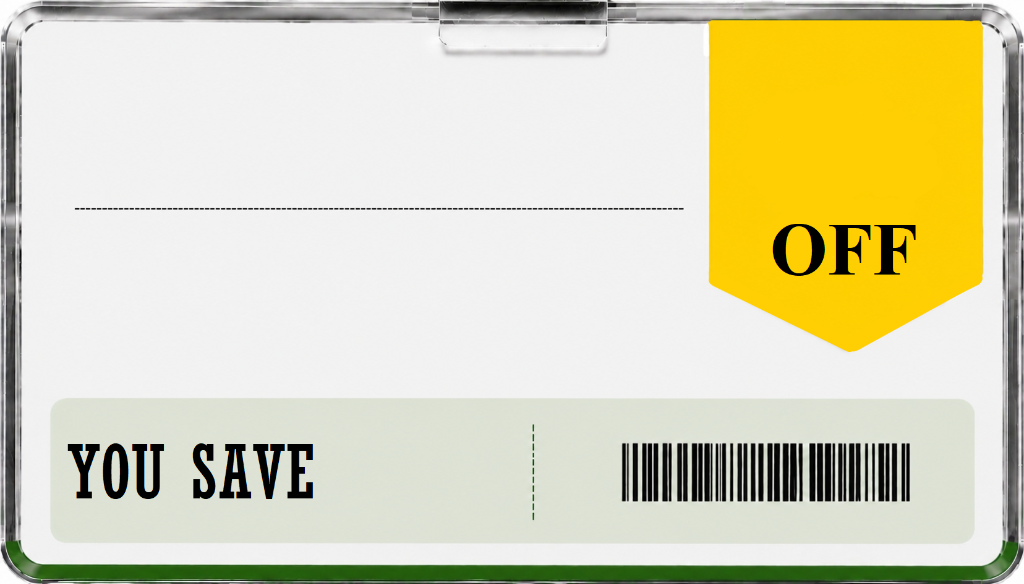
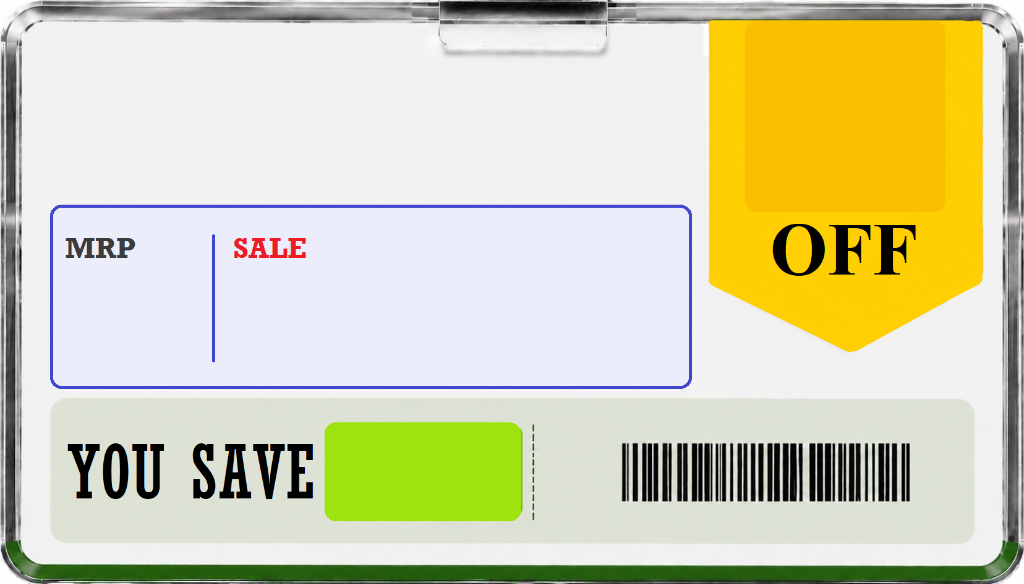
Update: Integrate newly uploaded PNG templates and exact measured compartment boundaries (Build 202608131735)

diff --git a/frontend/customer/css/scanner-v2.css b/frontend/customer/css/scanner-v2.css
@@ -455,12 +455,12 @@
   font-size: clamp(1.02rem, 3.0vw, 1.30rem);
 }
 
-/* Compartment A: MRP_COMPARTMENT (Measured PNG Geometry: X=40..240, Y=200..419) */
+/* Compartment A: MRP_COMPARTMENT (Measured New PNG Geometry: X=40..200, Y=200..419) */
 .esl-mrp-block {
   position: absolute;
   top: 34.25%;
   left: 3.91%;
-  width: 19.53%;
+  width: 15.72%;
   height: 37.50%;
   display: flex;
   flex-direction: column;
@@ -511,12 +511,12 @@
   font-weight: 500;
 }
 
-/* Compartment B: SALE_PRICE_COMPARTMENT (Measured PNG Geometry: X=242..949, Y=200..419) */
+/* Compartment B: SALE_PRICE_COMPARTMENT (Measured New PNG Geometry: X=202..949, Y=200..419) */
 .esl-sale-block {
   position: absolute;
   top: 34.25%;
-  left: 23.63%;
-  width: 69.05%;
+  left: 19.73%;
+  width: 73.05%;
   height: 37.50%;
   font-family: 'Outfit', -apple-system, BlinkMacSystemFont, sans-serif;
   font-size: clamp(2.4rem, 7.6vw, 3.6rem); /* Dominant sale price scale */

diff --git a/frontend/customer/js/build-env.js b/frontend/customer/js/build-env.js
@@ -1,10 +1,10 @@
 // Automatically generated build metadata
 window.APP_BUILD = {
   version: "0.1.0",
-  build: "202608131724",
-  commit: "52aabb8",
+  build: "202608131735",
+  commit: "5f3acf2",
   branch: "main",
-  buildTime: "2026-08-13T17:24:02.433Z",
+  buildTime: "2026-08-13T17:35:13.239Z",
   environment: "production",
   serviceWorkerEnabled: true
 };

diff --git a/frontend/customer/index.html b/frontend/customer/index.html
@@ -11,7 +11,7 @@
   <!-- html5-qrcode library for barcode camera decoding -->
   <script src="js/libs/html5-qrcode.min.js"></script>
   <script src="js/scanner.js"></script>
-  <script>window.HTML_BUILD = "202608131724";</script>
+  <script>window.HTML_BUILD = "202608131735";</script>
 </head>
 <body>
   <div class="app-shell">

diff --git a/frontend/customer/sw.js b/frontend/customer/sw.js
@@ -1,4 +1,4 @@
-const CACHE_NAME = '78pricecheck-202608131724';
+const CACHE_NAME = '78pricecheck-202608131735';
 const ASSETS_TO_CACHE = [
   './',
   './index.html',
